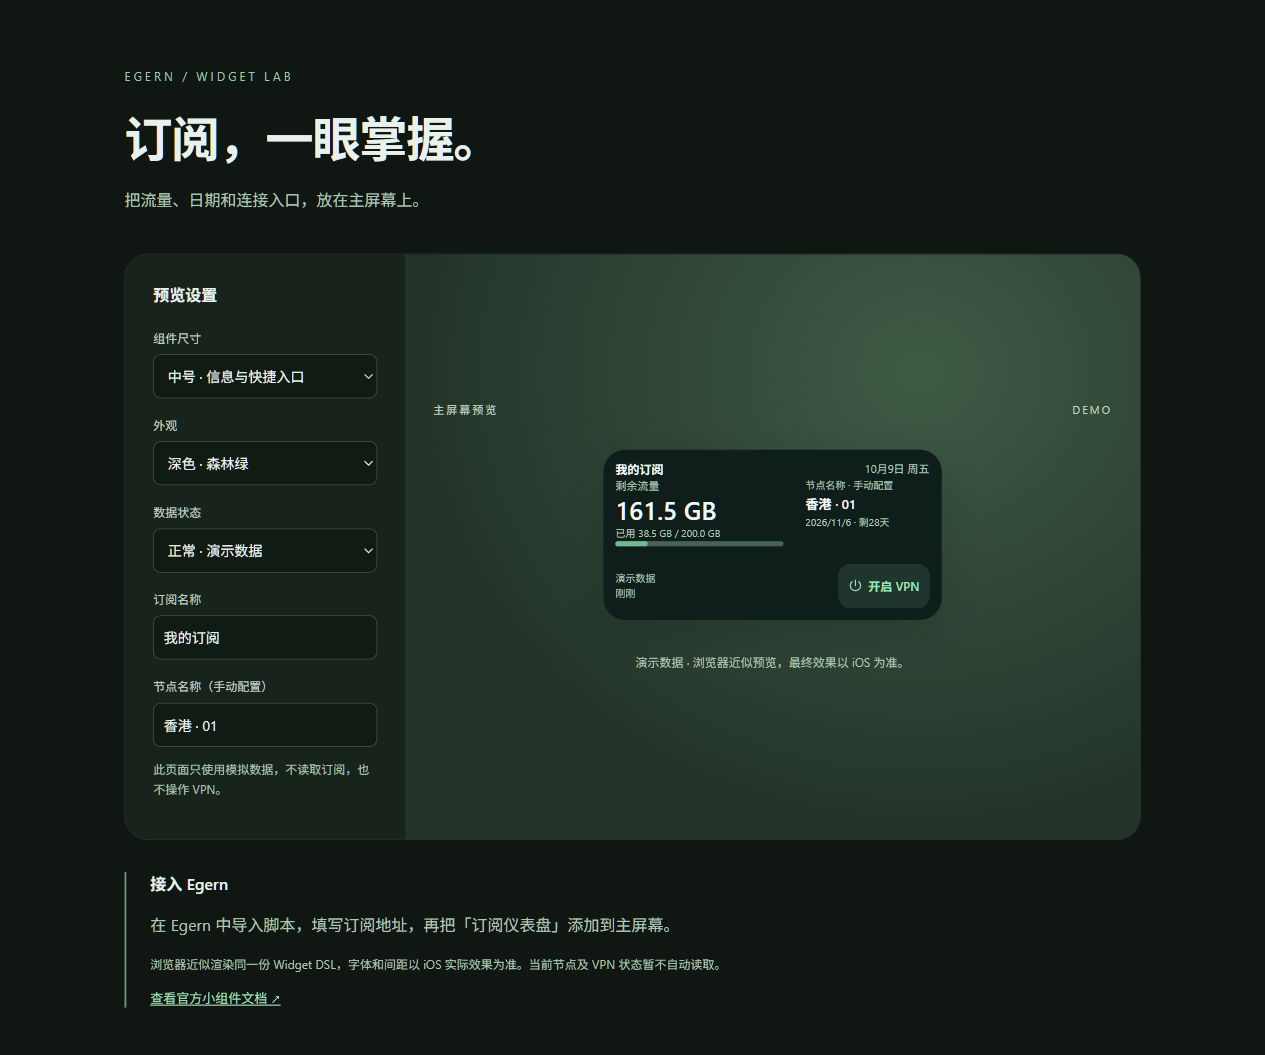
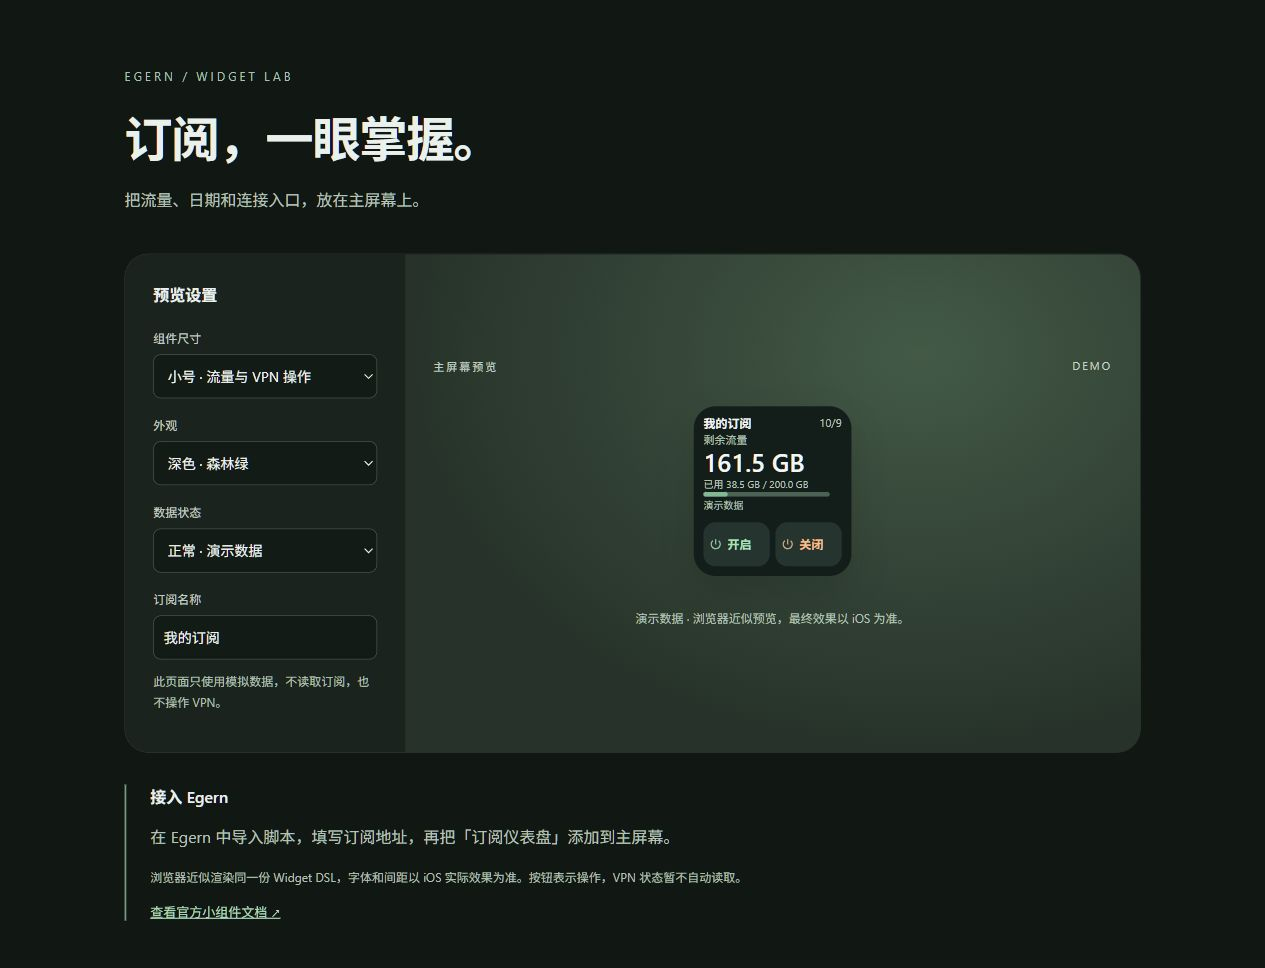
Add separate VPN start and stop controls and remove node info

diff --git a/dist/dashboard.js b/dist/dashboard.js
@@ -8,6 +8,7 @@ const GIB = 1024 ** 3;
 const MINUTE = 60 * 1000;
 const DAY = 24 * 60 * MINUTE;
 const START_URL = 'egern:/start';
+const STOP_URL = 'egern:/stop';
 const COLORS = {
   background: { light: '#F0F5F3', dark: '#101E1B' },
   surface: { light: '#DFEAE5', dark: '#20352E' },
@@ -218,13 +219,29 @@ function symbol(name, color = COLORS.accent, size = 14) {
   };
 }
 
-function powerButton(compact = false) {
-  return stack([symbol('power'), text('开启 VPN', 12, COLORS.accent, 'semibold')], {
-    url: START_URL,
-    height: compact ? 32 : 44,
-    padding: [0, 10, 0, 10],
-    backgroundColor: COLORS.surface,
-    borderRadius: 12,
+function powerButton(action, compact = false) {
+  const start = action === 'start';
+  const label = start ? '开启' : '关闭';
+  const color = start ? COLORS.accent : COLORS.warning;
+  return stack(
+    [
+      symbol('power', color, 12),
+      text(compact ? label : `${label} VPN`, 12, color, 'semibold'),
+    ],
+    {
+      url: start ? START_URL : STOP_URL,
+      height: 44,
+      padding: [0, compact ? 6 : 10, 0, compact ? 6 : 10],
+      backgroundColor: COLORS.surface,
+      borderRadius: 12,
+      ...(compact ? { flex: 1 } : {}),
+    },
+  );
+}
+
+function vpnControls(compact = false) {
+  return stack([powerButton('start', compact), powerButton('stop', compact)], {
+    gap: 6,
   });
 }
 
@@ -266,13 +283,12 @@ function renderDashboard(data, env = {}, family = 'systemMedium', now = Date.now
     (usage?.expiresAt != null && usage.expiresAt <= now);
   const remaining = formatBytes(usage?.remaining ?? null);
   const title = env.SUBSCRIPTION_NAME || '我的订阅';
-  const node = env.NODE_NAME || '未设置';
   const interval = boundedNumber(env.REFRESH_MINUTES, 15, 5, 1440) * MINUTE;
   const expiryRefresh = usage?.expiresAt > now ? usage.expiresAt : Infinity;
   const root = {
     type: 'widget',
-    padding: lock ? 0 : 12,
-    gap: 4,
+    padding: lock ? 0 : compact ? 10 : 12,
+    gap: compact ? 3 : 4,
     refreshAfter: new Date(
       Math.min(now + interval, date.nextMidnight, expiryRefresh),
     ).toISOString(),
@@ -333,13 +349,13 @@ function renderDashboard(data, env = {}, family = 'systemMedium', now = Date.now
         ? [text(data.message, 10, warning ? COLORS.warning : COLORS.secondary)]
         : []),
     ],
-    { direction: 'column', alignItems: 'start', gap: 3 },
+    { direction: 'column', alignItems: 'start', gap: compact ? 2 : 3 },
   );
   const metadata = stack(
     [
-      text('节点名称 · 手动配置', 10, COLORS.secondary),
-      text(node, 13, COLORS.primary, 'semibold'),
-      text(expiryLabel(usage, now, offset), 10, COLORS.secondary),
+      text('订阅有效期', 10, COLORS.secondary),
+      text(expiryLabel(usage, now, offset), 11, COLORS.primary, 'semibold'),
+      text('VPN 状态未知', 10, COLORS.secondary),
     ],
     { direction: 'column', alignItems: 'start', flex: 1, gap: 5 },
   );
@@ -364,9 +380,8 @@ function renderDashboard(data, env = {}, family = 'systemMedium', now = Date.now
   }
   root.children.push({ type: 'spacer' });
   if (compact) {
-    // iOS small widgets have a single tap target, so the whole widget starts VPN.
-    root.url = START_URL;
-    root.children.push(powerButton(true));
+    // Keep URLs on the individual controls; a root URL would make the card start VPN.
+    root.children.push(vpnControls(true));
   } else {
     const status = stack(
       [
@@ -386,7 +401,7 @@ function renderDashboard(data, env = {}, family = 'systemMedium', now = Date.now
       ],
       { direction: 'column', alignItems: 'start', gap: 3, flex: 1 },
     );
-    root.children.push(stack([status, powerButton()]));
+    root.children.push(stack([status, vpnControls()]));
   }
   return root;
 }

diff --git a/src/dashboard.js b/src/dashboard.js
@@ -3,6 +3,7 @@ const GIB = 1024 ** 3;
 const MINUTE = 60 * 1000;
 const DAY = 24 * 60 * MINUTE;
 const START_URL = 'egern:/start';
+const STOP_URL = 'egern:/stop';
 const COLORS = {
   background: { light: '#F0F5F3', dark: '#101E1B' },
   surface: { light: '#DFEAE5', dark: '#20352E' },
@@ -213,13 +214,29 @@ function symbol(name, color = COLORS.accent, size = 14) {
   };
 }
 
-function powerButton(compact = false) {
-  return stack([symbol('power'), text('开启 VPN', 12, COLORS.accent, 'semibold')], {
-    url: START_URL,
-    height: compact ? 32 : 44,
-    padding: [0, 10, 0, 10],
-    backgroundColor: COLORS.surface,
-    borderRadius: 12,
+function powerButton(action, compact = false) {
+  const start = action === 'start';
+  const label = start ? '开启' : '关闭';
+  const color = start ? COLORS.accent : COLORS.warning;
+  return stack(
+    [
+      symbol('power', color, 12),
+      text(compact ? label : `${label} VPN`, 12, color, 'semibold'),
+    ],
+    {
+      url: start ? START_URL : STOP_URL,
+      height: 44,
+      padding: [0, compact ? 6 : 10, 0, compact ? 6 : 10],
+      backgroundColor: COLORS.surface,
+      borderRadius: 12,
+      ...(compact ? { flex: 1 } : {}),
+    },
+  );
+}
+
+function vpnControls(compact = false) {
+  return stack([powerButton('start', compact), powerButton('stop', compact)], {
+    gap: 6,
   });
 }
 
@@ -266,13 +283,12 @@ export function renderDashboard(
     (usage?.expiresAt != null && usage.expiresAt <= now);
   const remaining = formatBytes(usage?.remaining ?? null);
   const title = env.SUBSCRIPTION_NAME || '我的订阅';
-  const node = env.NODE_NAME || '未设置';
   const interval = boundedNumber(env.REFRESH_MINUTES, 15, 5, 1440) * MINUTE;
   const expiryRefresh = usage?.expiresAt > now ? usage.expiresAt : Infinity;
   const root = {
     type: 'widget',
-    padding: lock ? 0 : 12,
-    gap: 4,
+    padding: lock ? 0 : compact ? 10 : 12,
+    gap: compact ? 3 : 4,
     refreshAfter: new Date(
       Math.min(now + interval, date.nextMidnight, expiryRefresh),
     ).toISOString(),
@@ -333,13 +349,13 @@ export function renderDashboard(
         ? [text(data.message, 10, warning ? COLORS.warning : COLORS.secondary)]
         : []),
     ],
-    { direction: 'column', alignItems: 'start', gap: 3 },
+    { direction: 'column', alignItems: 'start', gap: compact ? 2 : 3 },
   );
   const metadata = stack(
     [
-      text('节点名称 · 手动配置', 10, COLORS.secondary),
-      text(node, 13, COLORS.primary, 'semibold'),
-      text(expiryLabel(usage, now, offset), 10, COLORS.secondary),
+      text('订阅有效期', 10, COLORS.secondary),
+      text(expiryLabel(usage, now, offset), 11, COLORS.primary, 'semibold'),
+      text('VPN 状态未知', 10, COLORS.secondary),
     ],
     { direction: 'column', alignItems: 'start', flex: 1, gap: 5 },
   );
@@ -364,9 +380,8 @@ export function renderDashboard(
   }
   root.children.push({ type: 'spacer' });
   if (compact) {
-    // iOS small widgets have a single tap target, so the whole widget starts VPN.
-    root.url = START_URL;
-    root.children.push(powerButton(true));
+    // Keep URLs on the individual controls; a root URL would make the card start VPN.
+    root.children.push(vpnControls(true));
   } else {
     const status = stack(
       [
@@ -386,7 +401,7 @@ export function renderDashboard(
       ],
       { direction: 'column', alignItems: 'start', gap: 3, flex: 1 },
     );
-    root.children.push(stack([status, powerButton()]));
+    root.children.push(stack([status, vpnControls()]));
   }
   return root;
 }

diff --git a/preview/index.html b/preview/index.html
@@ -19,8 +19,8 @@
           <h2>预览设置</h2>
           <label for="family">组件尺寸</label>
           <select id="family">
+            <option value="systemSmall">小号 · 流量与 VPN 操作</option>
             <option value="systemMedium">中号 · 信息与快捷入口</option>
-            <option value="systemSmall">小号 · 流量与启动</option>
             <option value="systemLarge">大号 · 完整订阅信息</option>
             <option value="systemExtraLarge">超大号 · iPad</option>
             <option value="accessoryRectangular">锁屏 · 矩形</option>
@@ -43,22 +43,20 @@
           </select>
           <label for="name">订阅名称</label>
           <input id="name" value="我的订阅" maxlength="60" />
-          <label for="node">节点名称（手动配置）</label>
-          <input id="node" value="香港 · 01" maxlength="100" />
           <p class="hint">此页面只使用模拟数据，不读取订阅，也不操作 VPN。</p>
         </form>
         <div class="stage">
           <div class="stage-label"><span>主屏幕预览</span><span>DEMO</span></div>
           <div id="widget" aria-label="模拟 Egern 小组件"></div>
-          <p id="feedback" role="status">点击“开启 VPN”可查看原生跳转地址。</p>
+          <p id="feedback" role="status">点击开启或关闭可查看对应跳转地址。</p>
         </div>
       </section>
       <aside>
         <h2>接入 Egern</h2>
         <p>在 Egern 中导入脚本，填写订阅地址，再把「订阅仪表盘」添加到主屏幕。</p>
         <p class="hint">
-          浏览器近似渲染同一份 Widget DSL，字体和间距以 iOS 实际效果为准。当前节点及 VPN
-          状态暂不自动读取。
+          浏览器近似渲染同一份 Widget DSL，字体和间距以 iOS
+          实际效果为准。按钮表示操作，VPN 状态暂不自动读取。
         </p>
         <a
           href="https://egernapp.com/zh-CN/docs/configuration/widgets/"

diff --git a/preview/preview.js b/preview/preview.js
@@ -14,6 +14,13 @@ const sizes = {
 };
 const weights = { regular: 400, medium: 500, semibold: 600, bold: 700 };
 
+function actionFeedback(url) {
+  feedback.textContent =
+    url === 'egern:/stop'
+      ? '关闭操作：跳转至 egern:/stop，由 Egern 执行停止 VPN。'
+      : '开启操作：跳转至 egern:/start，由 Egern 执行启动 VPN。';
+}
+
 function resolveColor(value, theme) {
   return typeof value === 'object' ? value[theme] : value;
 }
@@ -27,7 +34,7 @@ function render(element, theme) {
     node.type = 'button';
     node.classList.add('dsl-action');
     node.addEventListener('click', () => {
-      feedback.textContent = `在 iOS 上跳转至 ${action}，由 Egern 执行开启 VPN。`;
+      actionFeedback(action);
     });
   }
   if (element.type === 'stack' || element.type === 'widget') {
@@ -123,7 +130,6 @@ function update() {
   };
   const env = {
     SUBSCRIPTION_NAME: document.querySelector('#name').value,
-    NODE_NAME: document.querySelector('#node').value,
   };
   const dsl = renderDashboard(data, env, family, now);
   const rendered = render(dsl, theme);
@@ -139,7 +145,7 @@ function update() {
     : resolveColor(dsl.backgroundColor, theme);
   widget.onclick = dsl.url
     ? () => {
-        feedback.textContent = `在 iOS 上跳转至 ${dsl.url}，由 Egern 执行开启 VPN。`;
+        actionFeedback(dsl.url);
       }
     : null;
   widget.tabIndex = dsl.url ? 0 : -1;

diff --git a/test/dashboard.test.js b/test/dashboard.test.js
@@ -177,3 +177,21 @@ test('entry function produces a widget from Egern context', async () => {
   assert.equal(result.type, 'widget');
   assert.ok(texts(result).includes('演示数据'));
 });
+
+test('home-screen widgets expose independent start and stop actions without a root URL', () => {
+  const data = { usage: parseUsage(HEADER), updatedAt: NOW, message: '已更新' };
+  function links(element) {
+    return [element.url, ...(element.children || []).flatMap(links)].filter(Boolean);
+  }
+  for (const family of [
+    'systemSmall',
+    'systemMedium',
+    'systemLarge',
+    'systemExtraLarge',
+  ]) {
+    const widget = renderDashboard(data, { NODE_NAME: '旧节点配置' }, family, NOW);
+    assert.equal(widget.url, undefined);
+    assert.deepEqual(links(widget), ['egern:/start', 'egern:/stop']);
+    assert.doesNotMatch(JSON.stringify(widget), /节点|旧节点配置|已连接|未连接/);
+  }
+});

diff --git a/test/published-script.test.js b/test/published-script.test.js
@@ -14,7 +14,7 @@ test('published script exposes only the documented default entry', () => {
   assert.match(source, /^export default async function \(ctx\)/m);
   assert.equal((source.match(/^export /gm) || []).length, 1);
   assert.doesNotMatch(source, /^import /m);
-  assert.match(moduleFile, /script_url: .*\/dist\/dashboard\.js\?v=0\.1\.1/);
+  assert.match(moduleFile, /script_url: .*\/dist\/dashboard\.js\?v=0\.2\.0/);
 });
 
 test('module associates its widget with a same-named generic script', () => {

diff --git a/README.md b/README.md
@@ -1,6 +1,6 @@
 # Egern Dashboard Widget
 
-用于 Egern 的原生 iOS 主屏幕 / 锁屏小组件。第一版提供订阅剩余流量、已用 / 总流量、日期、订阅到期时间、手动配置的节点名称，以及「开启 VPN」入口。
+用于 Egern 的原生 iOS 主屏幕 / 锁屏小组件。提供订阅剩余流量、已用 / 总流量、日期、订阅到期时间。主屏幕组件提供独立的 VPN 开启、关闭操作入口，不显示节点信息。
 
 ## 通过模块链接安装
 
@@ -10,8 +10,8 @@
    https://raw.githubusercontent.com/zxas56555/egern-dashboard-widget/main/config/module.yaml
    ```
 
-2. 在模块设置中填写 `SUBSCRIPTION_URL`（自己的 HTTPS 订阅地址），可选填写订阅名称和节点名称。Egern 会自动下载脚本并注册「订阅仪表盘」。
-3. 长按 iOS 主屏幕 → 添加 Egern 小组件 → 编辑小组件 → 选择「订阅仪表盘」。建议先使用中号。
+2. 在模块设置中填写 `SUBSCRIPTION_URL`（自己的 HTTPS 订阅地址），可选填写订阅名称。Egern 会自动下载脚本并注册「订阅仪表盘」。
+3. 长按 iOS 主屏幕 → 添加 Egern 小组件 → 编辑小组件 → 选择「订阅仪表盘」。小号针对流量及 VPN 两个操作入口优化。
 
 想先看样式，可以在模块设置中开启演示数据；接入真实订阅时关闭。
 
@@ -20,8 +20,8 @@
 1. 在 Egern → 工具 → 脚本中新建脚本，名称 `egern-dashboard`，类型 `generic`，文件位置选本地，文件名 `dashboard.js`。
 2. 打开「编辑文件」，粘贴 `dist/dashboard.js` 的全部内容并保存。这是专供 Egern 的独立发布脚本，只有一个默认入口，使用时不需要 npm 或其他 JS 文件。`src/dashboard.js` 保留本地测试用的命名导出，请不要直接导入 Egern。
 3. 在分析页左上角进入小组件画廊，新建「订阅仪表盘」，关联 `egern-dashboard`。
-4. 在小组件的 Env 中填写 `SUBSCRIPTION_URL`（自己的 HTTPS 订阅地址），可选填 `SUBSCRIPTION_NAME` 与 `NODE_NAME`。也可以在脚本 Env 中配置。
-5. 长按 iOS 主屏幕 → 添加 Egern 小组件 → 编辑小组件 → 选择「订阅仪表盘」。建议先使用中号。
+4. 在小组件的 Env 中填写 `SUBSCRIPTION_URL`（自己的 HTTPS 订阅地址），可选填 `SUBSCRIPTION_NAME`。也可以在脚本 Env 中配置。
+5. 长按 iOS 主屏幕 → 添加 Egern 小组件 → 编辑小组件 → 选择「订阅仪表盘」。
 
 想先看样式，可以暂时设置 `DEMO=true`；接入真实订阅时删除此项或改为 `false`。
 
@@ -31,7 +31,6 @@
 | ------------------- | -------- | ---------------------------------------------- |
 | `SUBSCRIPTION_URL`  | 空       | HTTPS 订阅地址；必填才能读取真实流量           |
 | `SUBSCRIPTION_NAME` | 我的订阅 | 显示名称                                       |
-| `NODE_NAME`         | 未设置   | 手动填写的节点名称，并非当前选中节点           |
 | `USER_AGENT`        | Egern    | 订阅服务要求的请求 User-Agent                  |
 | `REFRESH_MINUTES`   | 15       | 请求缓存间隔和刷新建议，限制 5–1440 分钟       |
 | `TIMEZONE_OFFSET`   | 8        | 日期时区的 UTC 小时偏移，允许小数，限制 -12–14 |
@@ -49,9 +48,10 @@
 - 优先 HEAD，缺失或异常时回退 GET；GET 仅读取响应头，不解析节点列表或订阅正文。每次请求超时 6 秒，脚本超时建议 20 秒。
 - 缓存按订阅地址和 User-Agent 分开存储，只保存流量头和更新时间。缓存失效后请求失败，会明确显示「更新失败 · 上次数据」。缓存没有最长保留期限，旧数据不会被当作刚更新的数据。
 - `refreshAfter` 仅向 iOS 提出刷新建议，实际刷新时间由系统决定。流量及到期信息不是实时数据，日期在下一次系统刷新时更新。
-- 按钮使用官方 `egern:/start` URL Scheme。点击后由系统跳转到 Egern 执行启动；它不显示或判断当前 VPN 状态。初次系统授权及实际启动结果请在设备上确认。
-- 小号与锁屏组件整体点击开启 VPN；中号和大号使用按钮入口。小号优先显示流量、日期和启动入口；节点与到期时间在中号及大号显示。
-- 已核查的公开 JavaScript API 没有当前策略组节点 / VPN 状态读取接口，因此第一版使用手动节点名称，不展示未经读取的连接状态。
+- 主屏幕上的「开启」「关闭」分别使用官方 `egern:/start`、`egern:/stop` URL Scheme。文字表示操作，不是连接状态；VPN 开启后两项操作仍然保留。用户已在 2.20.0 的设备上确认，启动链接会进入 Egern 并开启 VPN。这种 URL 入口不能保证后台无界面执行。
+- 小号、中号、大号与超大号使用两个独立操作区域，主屏幕根容器不设置启动 URL，避免把整个卡片绑定到启动操作。小号分别点击两个区域是否可用，仍需在 Egern 和 iOS 实际版本上验收；浏览器预览不能验证系统的点击分发。
+- 锁屏组件空间有限，继续整体点击开启 VPN。小号优先显示流量、日期及开／关操作；到期时间在中号及大号显示。
+- 已核查的公开 JavaScript API 没有 VPN 状态读取接口，因此不显示「已连接／未连接」，中号与大号明确标记「VPN 状态未知」。旧的 `NODE_NAME` 环境变量会被忽略，可以删除。
 
 ## 本地开发与预览
 
@@ -75,22 +75,22 @@ npm run preview
 
 若小组件画廊只出现「订阅仪表盘」名称，没有流量或配置提示，说明还未显示出脚本的预期内容；仅凭这个界面不能区分下载、执行和渲染失败。
 
-1. 在 Egern 中更新模块；此次兼容版本的脚本路径为 `dist/dashboard.js?v=0.1.1`，与初版地址不同。
+1. 在 Egern 中更新模块；当前脚本路径为 `dist/dashboard.js?v=0.2.0`，与初版地址不同。
 2. 当前模块的脚本名称和小组件名称均为「订阅仪表盘」，使用同名关联。不同版本的模块脚本不一定出现在工具 → 脚本的本地列表中；列表为空时，不要据此判断下载失败，也无需从那里寻找模块脚本的运行按钮。
-3. 在模块设置中暂时打开演示数据。演示模式不请求订阅，成功时应显示剩余 `161.5 GB` 和「开启 VPN」入口。
+3. 在模块设置中暂时打开演示数据。演示模式不请求订阅，成功时应显示剩余 `161.5 GB` 和 VPN 开／关入口。
 4. 若仍只显示名称，导入下面的独立自检模块并查看「仪表盘自检」。这个最小脚本不请求网络、不使用缓存或 SVG。绿色卡片显示「自检成功」说明该模块的脚本已执行；若仍只有名称，需要继续排查模块资源下载、关联或运行入口，不能仅凭界面认定具体原因。
 
    ```text
    https://raw.githubusercontent.com/zxas56555/egern-dashboard-widget/main/config/self-test.yaml
    ```
 
-5. 可在设置 → 调试 → 脚本编辑器中粘贴 `dist/dashboard.js` 调试。**运行类型必须选择「通用」（generic）**，不要保留默认的「请求」类型。已在 Egern 2.20.0 (783) 的设备上确认：最简自检在请求类型下只出现日志；切换到通用类型后会出现绿色的小组件预览。这一结果只验证编辑器自检，不代表模块或完整仪表盘已通过设备验证。不要公开包含订阅 token 的完整错误文本。
+5. 可在设置 → 调试 → 脚本编辑器中粘贴 `dist/dashboard.js` 调试。**运行类型必须选择「通用」（generic）**，不要保留默认的「请求」类型。已在 Egern 2.20.0 (783) 的设备上确认：最简自检在请求类型下只出现日志；切换到通用类型后会出现绿色的小组件预览。用户随后确认初版完整脚本可预览，模块最终也能显示；新版的双操作点击分发仍需单独验收。不要公开包含订阅 token 的完整错误文本。
 6. 先在通用编辑器中运行完整发布脚本。不配置订阅也应显示仪表盘及「请配置订阅地址」，可据此检查脚本渲染，无需输入真实 token。如果编辑器预览正常、模块或桌面仍不显示，再排查模块加载和桌面小组件关联。
 
 ## 设备验收
 
 1. 用中号组件确认订阅流量与服务商后台一致，检查时区和到期时间。
-2. 点「开启 VPN」，确认 Egern 启动成功；在 VPN 已开时再点一次，检查设备上的实际行为。
+2. 先关闭 VPN，再点「开启」，确认 Egern 启动成功；随后点「关闭」，确认 VPN 停止。重点分别测试小号的两个区域，不能只验证其中一个。
 3. 切换小号 / 大号及锁屏组件，检查长名称、系统大字体和明暗外观是否正常。
 4. 断网并等待缓存间隔结束，确认显示失败提示和上次更新时间；恢复网络后等待系统刷新。
 
